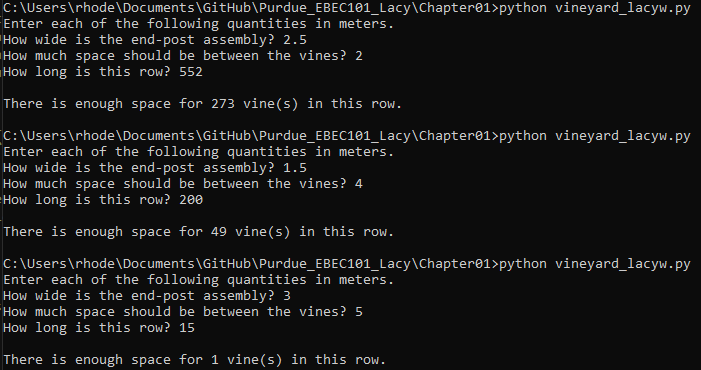
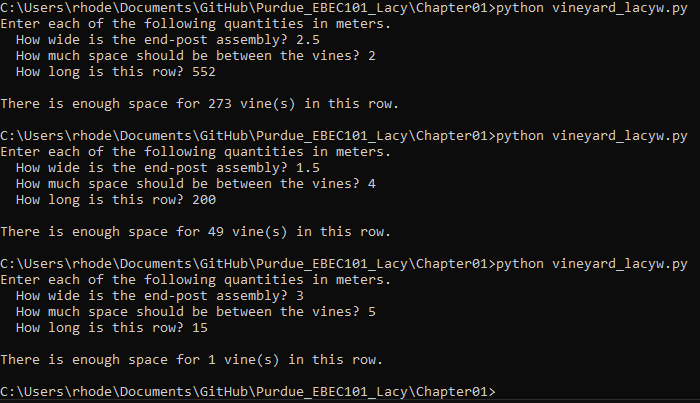
Ex 01.2

diff --git a/Chapter01/interest_lacyw.py b/Chapter01/interest_lacyw.py
@@ -1,13 +1,13 @@
 """
-Author: Your Name, login@purdue.edu
-Assignment: mm.n - Assignment Name
-Date: MM/DD/YYYY
+Author: William Rhodes Lacy, lacyw@purdue.edu
+Assignment: 01.2 - interest
+Date: 02/07/2022
 
 Description:
-    Describe your program here.
+    Calculates the account balance of a bank account at a specific time for a given interest rate and compounding period. Prompts user for floating point input
 
 Contributors:
-    Name, login@purdue.edu [repeat for each]
+    William Rhodes Lacy, lacyw@purdue.edu
 
 My contributor(s) helped me:
     [ ] understand the assignment expectations without
@@ -31,9 +31,22 @@ Academic Integrity Statement:
 
 """Write new functions below this line (starting with unit 4)."""
 
-
 def main():
-    """Write your mainline logic below this line (then delete this line)."""
+	#Prompt user with data format
+	print("Enter each of the following parameters.");
+	
+	#Inputs - prompt user for specific, floating point inputs
+	P = float(input("  The initial deposit? "));
+	r = float(input("  The annual interest rate in percent? "));
+	t = float(input("  The number of years the account earn interest? "));
+	n = float(input("  The number of times the interest is compounded each year: "));
+	
+	#Calculations - calculate the account balance
+	r = r / 100;
+	balance = P * pow((1 + r/n), (n * t));
+	
+	#Output - output the results
+	print("The balance of this account will be ${:,.2f} after {:.1f} years.".format(balance, t));
 
 
 """Do not change anything below this line."""

diff --git a/Chapter01/vineyard_lacyw.py b/Chapter01/vineyard_lacyw.py
@@ -4,7 +4,7 @@ Assignment: 01.1 - vineyard
 Date: 02/07/2022
 
 Description:
-    Describe your program here.
+    Calculates the number of vines capable of being planted in a given plot given end lengths, spacings, and length of row
 
 Contributors:
     William Rhodes Lacy, lacyw@purdue.edu
@@ -33,13 +33,18 @@ Academic Integrity Statement:
 
 
 def main():
+	#Prompt user with data format
 	print("Enter each of the following quantities in meters.");
-	end_width = float(input("How wide is the end-post assembly? "));
-	space = float(input("How much space should be between the vines? "));
-	length = float(input("How long is this row? "));
 	
+	#Inputs - prompt user for specific, floating point inputs
+	end_width = float(input("  How wide is the end-post assembly? "));
+	space = float(input("  How much space should be between the vines? "));
+	length = float(input("  How long is this row? "));
+	
+	#Calculations - calculate the number of vines plantable
 	vines = int((length - 2 * end_width) / space);
 	
+	#Output - output the results
 	print("\nThere is enough space for {:.0f} vine(s) in this row.".format(vines));
 
 
